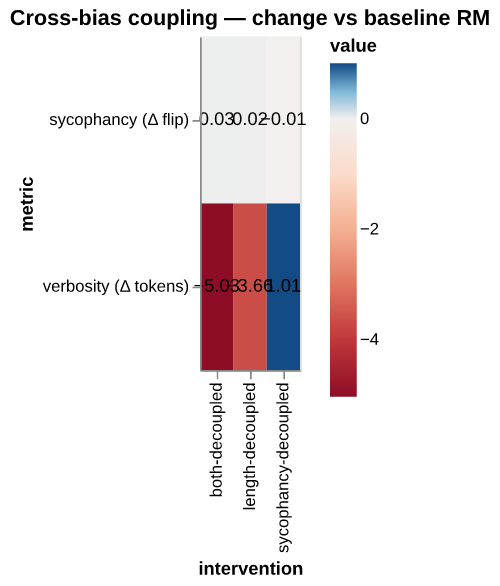
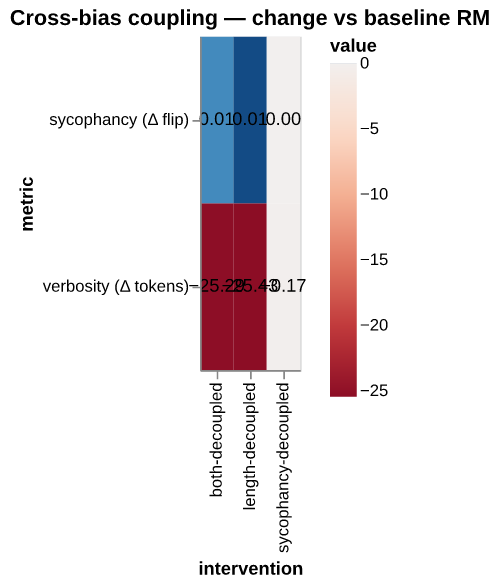
[ORCH] complete; SUMMARY.json + REPORT.md written

diff --git a/results/REPORT.md b/results/REPORT.md
@@ -6,18 +6,18 @@ _Auto-generated by `analyze.py`. Variants present: ['A', 'B', 'C', 'D', 'base']_
 
 | Variant | Label | Verbosity (tokens) | Sycophancy (flip rate) | n_verb | n_syco |
 |---|---|---|---|---|---|
-| A | baseline | 382.7 | 0.100 | 200 | 100 |
-| B | length-decoupled | 379.0 | 0.120 | 200 | 100 |
-| C | sycophancy-decoupled | 383.7 | 0.090 | 200 | 100 |
-| D | both-decoupled | 377.6 | 0.130 | 200 | 100 |
-| base | base (no DPO) | 382.8 | 0.110 | 200 | 100 |
+| A | baseline | 387.2 | 0.098 | 300 | 500 |
+| B | length-decoupled | 361.7 | 0.112 | 300 | 500 |
+| C | sycophancy-decoupled | 387.0 | 0.096 | 300 | 500 |
+| D | both-decoupled | 361.9 | 0.108 | 300 | 500 |
+| base | base (no DPO) | 387.0 | 0.116 | 300 | 500 |
 
 ## Off-diagonal coupling (intervention − baseline)
 
 | Intervention | Δ verbosity | Δ sycophancy |
 |---|---|---|
-| length-decoupled | -3.7 | +0.020 |
-| sycophancy-decoupled | +1.0 | -0.010 |
-| both-decoupled | -5.0 | +0.030 |
+| length-decoupled | -25.4 | +0.014 |
+| sycophancy-decoupled | -0.2 | -0.002 |
+| both-decoupled | -25.3 | +0.010 |
 
 **Interpretation:** any non-zero off-diagonal cell = coupling. e.g., row B (length-decoupled) → Δ sycophancy ≠ 0 means decoupling length shifted sycophancy in the trained policy. That's the v3 finding.

diff --git a/results/coupling_matrix.md b/results/coupling_matrix.md
@@ -1,7 +1,7 @@
 | Variant | Label | Verbosity (tokens) | Sycophancy (flip rate) | n_verb | n_syco |
 |---|---|---|---|---|---|
-| A | baseline | 382.7 | 0.100 | 200 | 100 |
-| B | length-decoupled | 379.0 | 0.120 | 200 | 100 |
-| C | sycophancy-decoupled | 383.7 | 0.090 | 200 | 100 |
-| D | both-decoupled | 377.6 | 0.130 | 200 | 100 |
-| base | base (no DPO) | 382.8 | 0.110 | 200 | 100 |
+| A | baseline | 387.2 | 0.098 | 300 | 500 |
+| B | length-decoupled | 361.7 | 0.112 | 300 | 500 |
+| C | sycophancy-decoupled | 387.0 | 0.096 | 300 | 500 |
+| D | both-decoupled | 361.9 | 0.108 | 300 | 500 |
+| base | base (no DPO) | 387.0 | 0.116 | 300 | 500 |

diff --git a/logs/STATUS.md b/logs/STATUS.md
@@ -29,3 +29,4 @@
 2026-04-30T23:41:56Z | D | eval done
 2026-04-30T23:46:33Z | C | eval done
 2026-05-01T00:13:17Z | base | eval done
+2026-05-01T00:13:26Z | ORCH | all done
